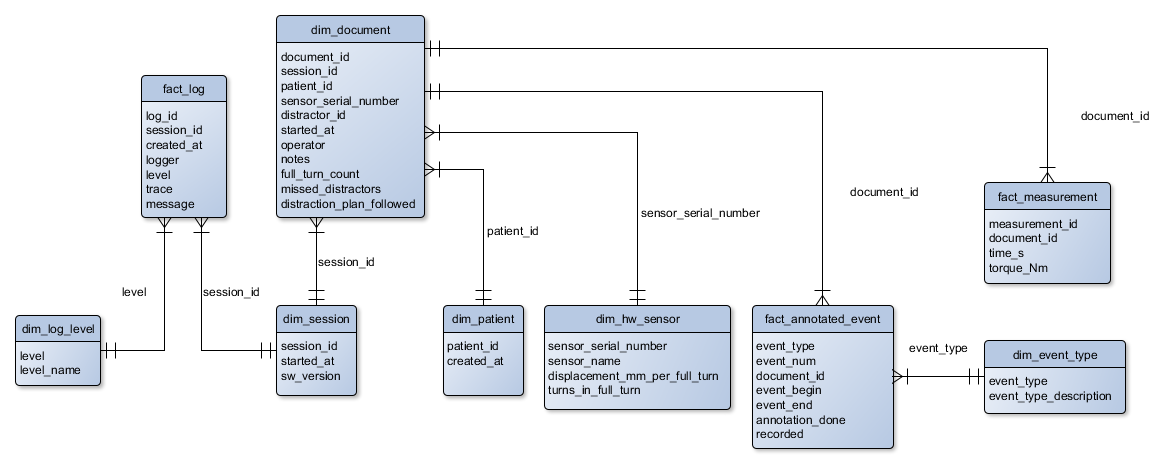
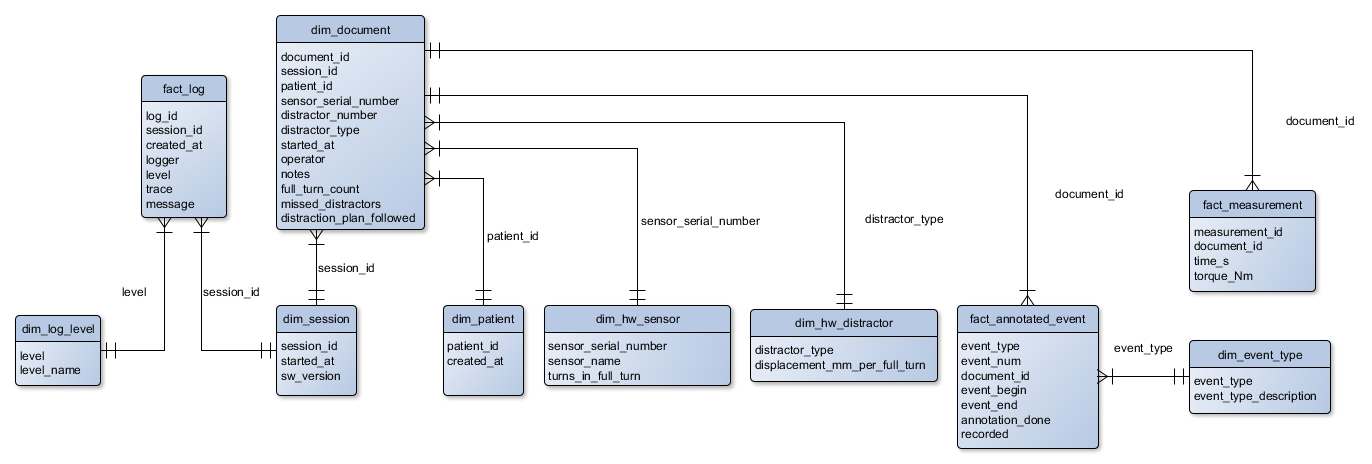
Add DistractorInfo ORM class (#120)
* Add DistractorType class
* Refactor distractor_id as distractor_number
* Move displacement_mm_per_full_turn from SensorInfo to DistractorInfo
* Update data model documentation

diff --git a/cranio/database.py b/cranio/database.py
@@ -59,6 +59,9 @@ def init_database(engine_str: str='sqlite://') -> None:
         # event types
         for event_type in EventType.event_types():
             enter_if_not_exists(s, event_type)
+        # distractor info
+        for distractor_info in DistractorInfo.distractor_infos():
+            enter_if_not_exists(s, distractor_info)
 
 
 def clear_database() -> None:
@@ -222,7 +225,8 @@ class Document(Base, InstanceBase, DictMixin):
     patient_id = Column(String, ForeignKey('dim_patient.patient_id'), nullable=False)
     sensor_serial_number = Column(String, ForeignKey('dim_hw_sensor.sensor_serial_number'), nullable=False,
                                   comment='Sensor serial number (e.g., FTSLQ6QIA)')
-    distractor_id = Column(Integer, comment='Distractor identifier (e.g., 1 or 2)')
+    distractor_number = Column(Integer, comment='Distractor number')
+    distractor_type = Column(String, ForeignKey('dim_hw_distractor.distractor_type'), nullable=False)
     started_at = Column(DateTime, comment='Data collection start date and time (UTC+0)')
     operator = Column(String, comment='Person responsible for the distraction')
     notes = Column(String, comment='User notes')
@@ -234,7 +238,7 @@ class Document(Base, InstanceBase, DictMixin):
     instance = None
 
     @classmethod
-    def init(cls, sensor_serial_number: str, patient_id: str=None) -> str:
+    def init(cls, sensor_serial_number: str, distractor_type: str, patient_id: str=None) -> str:
         """
         Initialize and insert Document row to database.
 
@@ -254,7 +258,7 @@ class Document(Base, InstanceBase, DictMixin):
             raise ValueError('Patient must be initialized before Document')
         with session_scope() as s:
             document = cls(session_id=Session.get_instance().session_id, patient_id=patient_id,
-                           sensor_serial_number=sensor_serial_number)
+                           sensor_serial_number=sensor_serial_number, distractor_type=distractor_type)
             s.add(document)
             cls.set_instance(document)
         return cls.get_instance()
@@ -330,8 +334,6 @@ class SensorInfo(Base, DictMixin):
     # serial number as natural primary key
     sensor_serial_number = Column(String, primary_key=True, comment='Sensor serial number')
     sensor_name = Column(String, comment='Sensor name')
-    displacement_mm_per_full_turn = Column(Numeric, comment='Sensor-specific displacement (mm) per full turn. '
-                                                            'The value is determined during hardware calibration.')
     turns_in_full_turn = Column(Numeric, comment='Sensor-specific number of turns in one full turn.')
 
 
@@ -360,3 +362,23 @@ def insert_time_series_to_database(time_s: Iterable[float], torque_Nm: Iterable[
             measurements.append(m)
             s.add(m)
     return measurements
+
+
+class DistractorType:
+    KLS = 'KLS Arnaud'
+    RED = 'Rigid External Distractor'
+
+
+class DistractorInfo(Base, DictMixin):
+    """ Distractor information table. """
+    __tablename__ = 'dim_hw_distractor'
+    distractor_type = Column(String, primary_key=True)
+    displacement_mm_per_full_turn = Column(Numeric, nullable=False,
+                                           comment='Distractor-specific displacement (mm) per full turn. '
+                                                   'The value is determined during hardware calibration.')
+
+    @classmethod
+    def distractor_infos(cls):
+        # TODO: Update displacement_mm_per_full_turn after calibration
+        return [cls(distractor_type=DistractorType.KLS, displacement_mm_per_full_turn=0.00),
+                cls(distractor_type=DistractorType.RED, displacement_mm_per_full_turn=0.00)]

diff --git a/test/test_database.py b/test/test_database.py
@@ -5,7 +5,7 @@ from sqlalchemy.inspection import inspect
 from cranio.core import generate_unique_id, utc_datetime
 from cranio.utils import try_remove, get_logging_levels
 from cranio.database import Patient, Session, Document, Measurement, Log, LogLevel, session_scope, export_schema_graph,\
-    AnnotatedEvent, init_database, EventType, enter_if_not_exists
+    AnnotatedEvent, init_database, EventType, enter_if_not_exists, DistractorInfo, DistractorType
 from cranio.producer import Sensor
 
 
@@ -45,7 +45,7 @@ def test_create_query_and_delete_document(database_patient_fixture):
     Sensor.enter_info_to_database()
     with session_scope() as s:
         d = Document(session_id=Session.get_instance().session_id, patient_id=Patient.get_instance().patient_id,
-                     sensor_serial_number=Sensor.sensor_info.sensor_serial_number)
+                     sensor_serial_number=Sensor.sensor_info.sensor_serial_number, distractor_type=DistractorType.KLS)
         assert_add_query_and_delete([d], s, Document)
 
 
@@ -99,6 +99,12 @@ def test_database_init_populate_lookup_tables(database_fixture):
         for real, target in zip(event_types, targets):
             assert real.event_type == target.event_type
             assert real.event_type_description == target.event_type_description
+        # distractor types
+        distractor_infos = s.query(DistractorInfo).all()
+        assert len(distractor_infos) == len(DistractorInfo.distractor_infos())
+        distractor_types = [d.distractor_type for d in distractor_infos]
+        assert DistractorType.KLS in distractor_types
+        assert DistractorType.RED in distractor_types
 
 
 def test_create_query_and_delete_annotated_event(database_document_fixture):
@@ -188,3 +194,7 @@ def test_measurement_copy_returns_new_instance_with_same_attributes():
     m2 = m1.copy()
     assert m2.as_dict() == m1.as_dict()
     assert m1 != m2
+
+
+def test_distractor_info_takes_distractor_type_and_displacement_mm_per_full_turn_as_args():
+    distractor_info = DistractorInfo(distractor_type='KLS Arnaud', displacement_mm_per_full_turn=1.15)

diff --git a/cranio/state.py b/cranio/state.py
@@ -4,7 +4,7 @@ from typing import List
 from PyQt5.QtCore import QStateMachine, QState, QEvent, pyqtSignal, QSignalTransition
 from PyQt5.QtWidgets import QMessageBox
 from cranio.app.window import MainWindow, RegionPlotWindow, NotesWindow
-from cranio.database import session_scope, Measurement, Session, Document, AnnotatedEvent, SensorInfo
+from cranio.database import session_scope, Measurement, Session, Document, AnnotatedEvent, SensorInfo, DistractorType
 from cranio.core import utc_datetime
 
 
@@ -62,10 +62,12 @@ class MeasurementState(MyState):
         :return:
         :raises ValueError: if active patient is invalid
         """
+        # FIXME: KLS distractor by default
         return Document(session_id=Session.get_instance().session_id, patient_id=self.machine().active_patient,
-                        distractor_id=self.machine().active_distractor, operator=self.machine().active_operator,
+                        distractor_number=self.machine().active_distractor, operator=self.machine().active_operator,
                         started_at=utc_datetime(),
-                        sensor_serial_number=self.machine().sensor.sensor_info.sensor_serial_number)
+                        sensor_serial_number=self.machine().sensor.sensor_info.sensor_serial_number,
+                        distractor_type=DistractorType.KLS)
 
     def onEntry(self, event: QEvent):
         super().onEntry(event)

diff --git a/test/conftest.py b/test/conftest.py
@@ -1,7 +1,7 @@
 import pytest
 import logging.config
 from daqstore.store import DataStore
-from cranio.database import init_database, Session, Patient, Document, SensorInfo, session_scope
+from cranio.database import init_database, Session, Patient, Document, SensorInfo, session_scope, DistractorType
 from cranio.utils import get_logging_config
 from cranio.core import generate_unique_id
 from cranio.producer import ProducerProcess, Sensor
@@ -34,11 +34,13 @@ def database_document_fixture(database_patient_fixture):
     Sensor.enter_info_to_database()
     try:
         Document.init(patient_id=Patient.get_instance().patient_id,
-                      sensor_serial_number=Sensor.sensor_info.sensor_serial_number)
+                      sensor_serial_number=Sensor.sensor_info.sensor_serial_number,
+                      distractor_type=DistractorType.KLS)
     except ValueError:
         Document.reset_instance()
         Document.init(patient_id=Patient.get_instance().patient_id,
-                      sensor_serial_number=Sensor.sensor_info.sensor_serial_number)
+                      sensor_serial_number=Sensor.sensor_info.sensor_serial_number,
+                      distractor_type=DistractorType.KLS)
 
 
 @pytest.fixture(scope='session', autouse=True)

diff --git a/test/test_hardware_data_model.py b/test/test_hardware_data_model.py
@@ -1,7 +1,7 @@
 import pytest
 from cranio.imada import Imada
 from cranio.producer import Sensor
-from cranio.database import Document, SensorInfo
+from cranio.database import Document, SensorInfo, DistractorInfo, DistractorType
 """
 List of tests:
 
@@ -13,11 +13,11 @@ turns performed
 """
 
 
-def test_sensor_table_contains_conversion_factor_for_calculating_distraction_achieved_from_number_of_full_turns(database_document_fixture):
+def test_distractor_table_contains_conversion_factor_for_calculating_distraction_achieved_from_number_of_full_turns(database_document_fixture):
     document = Document.get_instance()
     document.full_turn_count = 1
-    sensor_info = SensorInfo(sensor_serial_number='foo', displacement_mm_per_full_turn=1.2)
-    distraction_achieved_mm = document.full_turn_count * sensor_info.displacement_mm_per_full_turn
+    distractor_info = DistractorInfo(distractor_type=DistractorType.KLS, displacement_mm_per_full_turn=1.2)
+    distraction_achieved_mm = document.full_turn_count * distractor_info.displacement_mm_per_full_turn
     assert distraction_achieved_mm == 1.2
 
 

diff --git a/test/test_state_machine.py b/test/test_state_machine.py
@@ -58,7 +58,7 @@ def test_start_measurement_inserts_document_and_sensor_info_to_database(machine)
         assert document.document_id == machine.document.document_id
         # verify patient, distractor and operator
         assert document.patient_id == machine.active_patient
-        assert document.distractor_id == machine.active_distractor
+        assert document.distractor_number == machine.active_distractor
         assert document.operator == machine.active_operator
         assert document.sensor_serial_number
         sensor_info = s.query(SensorInfo).filter(SensorInfo.sensor_serial_number == document.sensor_serial_number).all()

diff --git a/cranio/app/widget.py b/cranio/app/widget.py
@@ -297,8 +297,8 @@ class MetaDataWidget(QGroupBox):
         return self.distractor_widget.value
 
     @active_distractor.setter
-    def active_distractor(self, distractor_id: int):
-        self.distractor_widget.value = distractor_id
+    def active_distractor(self, distractor_number: int):
+        self.distractor_widget.value = distractor_number
 
     @property
     def active_operator(self) -> str:

diff --git a/docs/source/data_model.rst b/docs/source/data_model.rst
@@ -52,9 +52,14 @@ dim_hw_sensor
 ^^^^^^^^^^^^^
 
 Sensor hardware information. The ``sensor_serial_number`` is automatically detected from the connected sensor.
+Column ``turns_in_full_turn`` is the sensor-specific number of turns in one full turn.
+
+dim_hw_distractor
+^^^^^^^^^^^^^^^^^
+
+Distractor hardware information.
 Column ``displacement_mm_per_full_turn`` describes the amount of displacement generated from one full distractor turn
 and is determined during hardware calibration.
-Column ``turns_in_full_turn`` is the sensor-specific number of turns in one full turn.
 
 fact_annotated_event
 ^^^^^^^^^^^^^^^^^^^^
